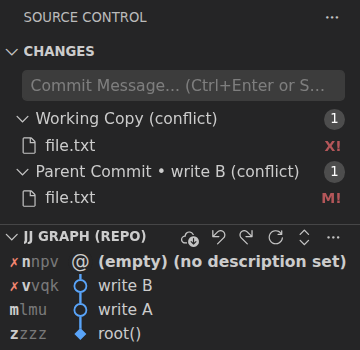
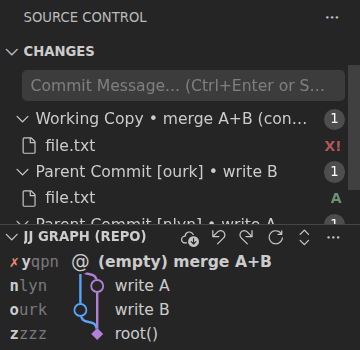
doc: Update conflict screenshots

diff --git a/tests-integration/screenshot/screenshot.test.ts b/tests-integration/screenshot/screenshot.test.ts
@@ -185,7 +185,7 @@ test("take screenshot of jj graph for readme", async ({ userDataDir, graphFrame,
   });
 });
 
-test("take screenshot of conflicts", async ({ userDataDir, scmView, graphFrame, testRepo, workbox }) => {
+test.only("take screenshot of conflicts", async ({ userDataDir, scmView, graphFrame, testRepo, workbox }) => {
   const sash = scmView.locator(".monaco-sash.horizontal").first();
   const sashBox = await sash.boundingBox();
   if (!sashBox) {
@@ -202,16 +202,14 @@ test("take screenshot of conflicts", async ({ userDataDir, scmView, graphFrame, 
   await workbox.setViewportSize({ width: 1920, height: 1080 });
   await initializeSettings(userDataDir, ZOOM_LEVEL);
 
-  const initialCommit = await testRepo.commit("initial commit");
-  const commitA = await testRepo.commitFile("file.txt", "content: A", "write A");
-  await testRepo.jjCommand(["new", initialCommit]);
+  await testRepo.commitFile("file.txt", "content: A", "write A");
+  await testRepo.jjCommand(["new", "root()"]);
   await testRepo.commitFile("file.txt", "content: B", "write B");
-  await testRepo.jjCommand(["rebase", "-o", commitA]);
-  await testRepo.jjCommand(["abandon", initialCommit]);
+  await testRepo.jjCommand(["new", "root()+", "-m", "merge A+B"]);
 
   const nodes = graphFrame.locator("#nodes > div");
   await expect(nodes).toHaveCount(4);
-  await expect(nodes.locator('[data-role="conflict-indicator"]')).toHaveCount(2);
+  await expect(nodes.locator('[data-role="conflict-indicator"]')).toHaveCount(1);
 
   const conflicts = scmView.getByRole("treeitem").filter({ hasText: "file.txt" });
   await expect(conflicts).toHaveCount(2);
